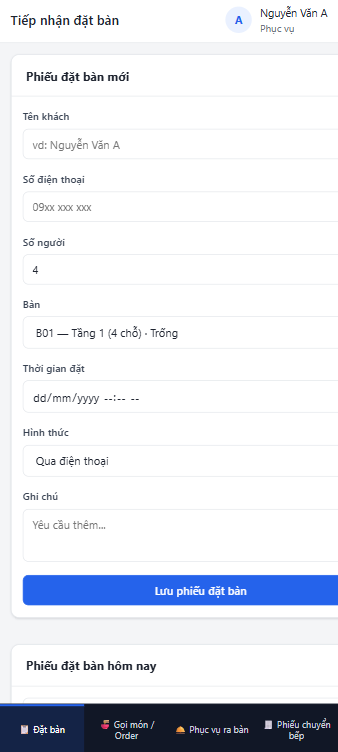
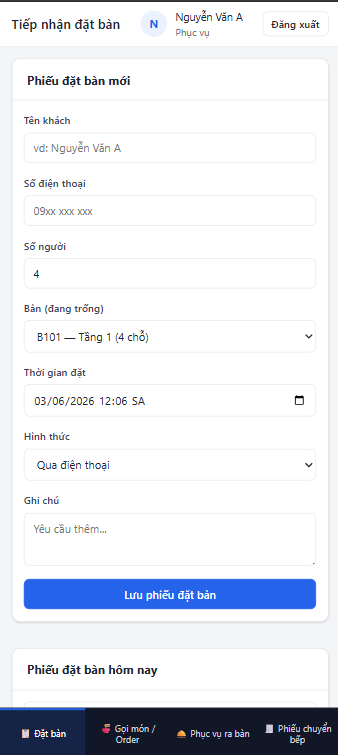
fix ui

diff --git a/design/ui/style.css b/design/ui/style.css
@@ -107,6 +107,9 @@ body {
 .card > .card-body { padding: 18px; }
 .grid-2 { display: grid; grid-template-columns: 1fr 1fr; gap: 16px; }
 .split { display: grid; grid-template-columns: 1.3fr 1fr; gap: 16px; align-items: start; }
+/* Ô lưới được phép co lại (bảng/nội dung rộng cuộn trong khung, không đẩy
+   cả cột vượt bề ngang màn hình). */
+.grid-2 > *, .split > * { min-width: 0; }
 
 /* ---------- Form ---------- */
 .form-grid { display: grid; grid-template-columns: 1fr 1fr; gap: 14px 18px; }
@@ -161,7 +164,7 @@ table.tbl td input[type="number"], table.tbl td input[type="text"] { padding: 5p
 /* Danh sách cuộn trong khung: lấp phần cao còn lại của 1 màn hình (trừ hao
    topbar + tiêu đề/bộ lọc + lề), không kéo dài trang theo số dòng.
    Tiêu đề cột dính trên đầu khi cuộn. */
-.table-scroll { max-height: max(220px, calc(100vh - 360px)); overflow-y: auto; }
+.table-scroll { max-height: max(220px, calc(100vh - 360px)); overflow-y: auto; overflow-x: auto; -webkit-overflow-scrolling: touch; }
 table.tbl thead th { position: sticky; top: 0; z-index: 1; }
 table.tbl tfoot td { position: sticky; bottom: 0; background: var(--c-surface); }
 
@@ -211,6 +214,8 @@ table.tbl tfoot td { position: sticky; bottom: 0; background: var(--c-surface); 
   .app { flex-direction: column; height: auto; overflow: visible; }
   .table-scroll { max-height: 55vh; overflow-y: auto; }
   .split > section:last-child .table-scroll { max-height: none; overflow: visible; }
+  /* Khu xem trước phiếu in: thu lề để phiếu 320px không tràn ngang trên phone */
+  .print-stage { padding: 12px; overflow-x: auto; }
 
   .sidebar {
     width: 100%; flex: none; order: 2;
